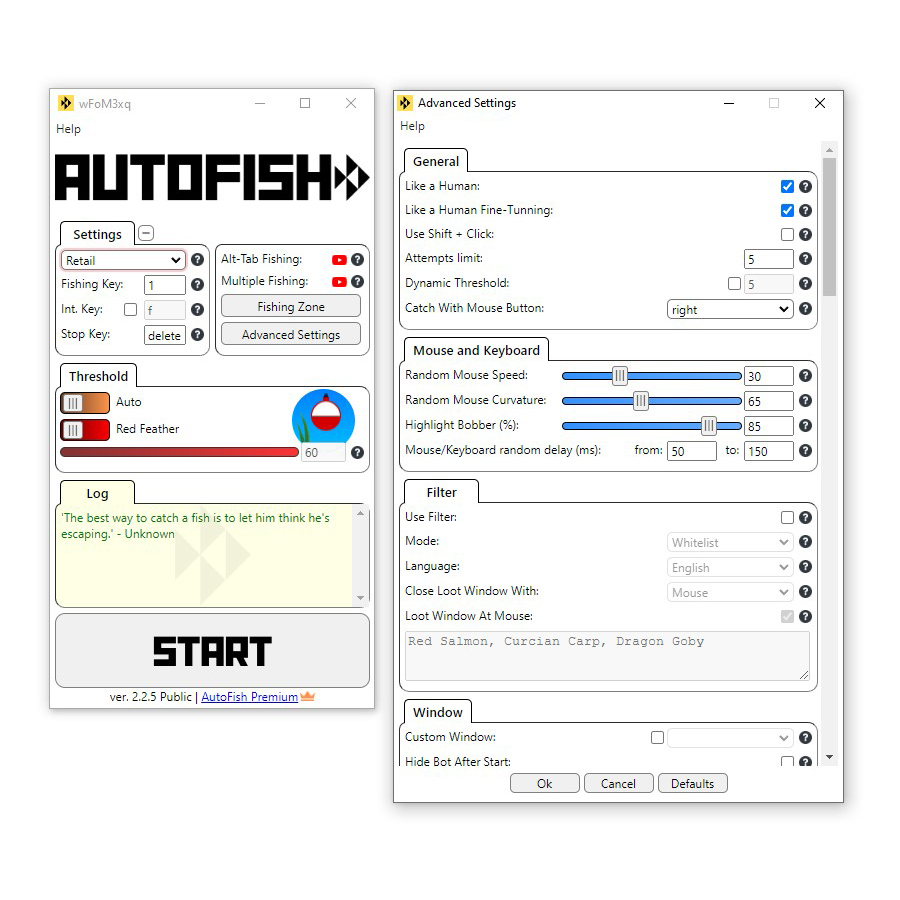
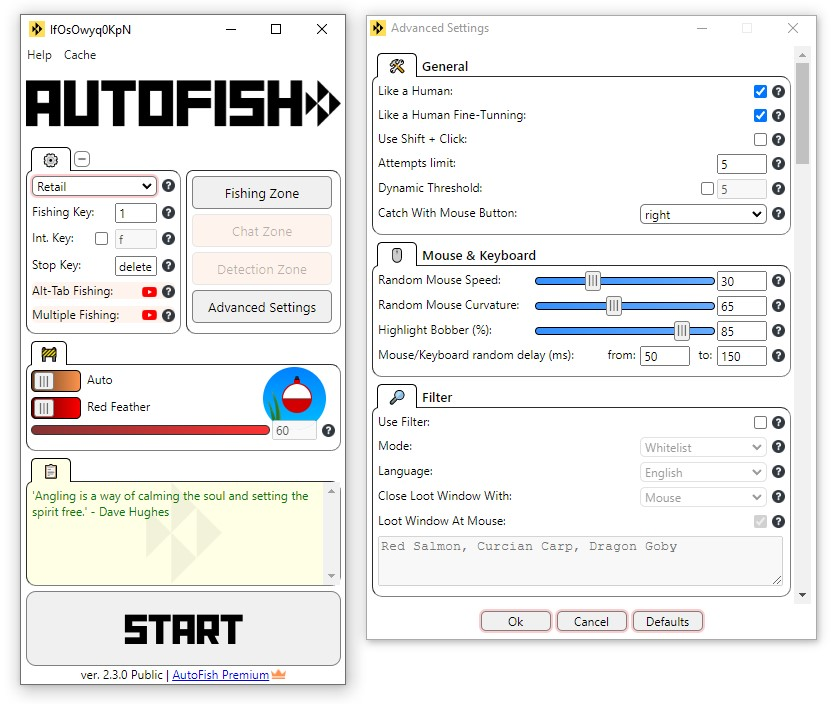
imgs + ver update in README

Changed region(s): [[0.0, 0.0, 0.9917, 1.0]]

diff --git a/README.md b/README.md
@@ -321,9 +321,9 @@ Watch <img src="https://upload.wikimedia.org/wikipedia/commons/thumb/0/09/YouTub
 <a href="https://www.buymeacoffee.com/jsbots"><img src="https://img.buymeacoffee.com/button-api/?text=Buy me a coffee&emoji=&slug=jsbots&button_colour=FFDD00&font_colour=000000&font_family=Bree&outline_colour=000000&coffee_colour=ffffff" /></a>
 </p>
 
-AutoFish 2.2.8 Public: [Download](https://www.buymeacoffee.com/jsbots/e/95380)
+AutoFish 2.3.0 Public: [Download](https://www.buymeacoffee.com/jsbots/e/95380)
 
-AutoFish 2.4.3 Premium: [Download](https://www.buymeacoffee.com/jsbots/e/96734)
+AutoFish 2.5.0 Premium: [Download](https://www.buymeacoffee.com/jsbots/e/96734)
 
 The software is open-source, allowing you to clone the repository, review the code, and launch it directly from the command-line interface if you have concerns about downloading the executable file.
 
